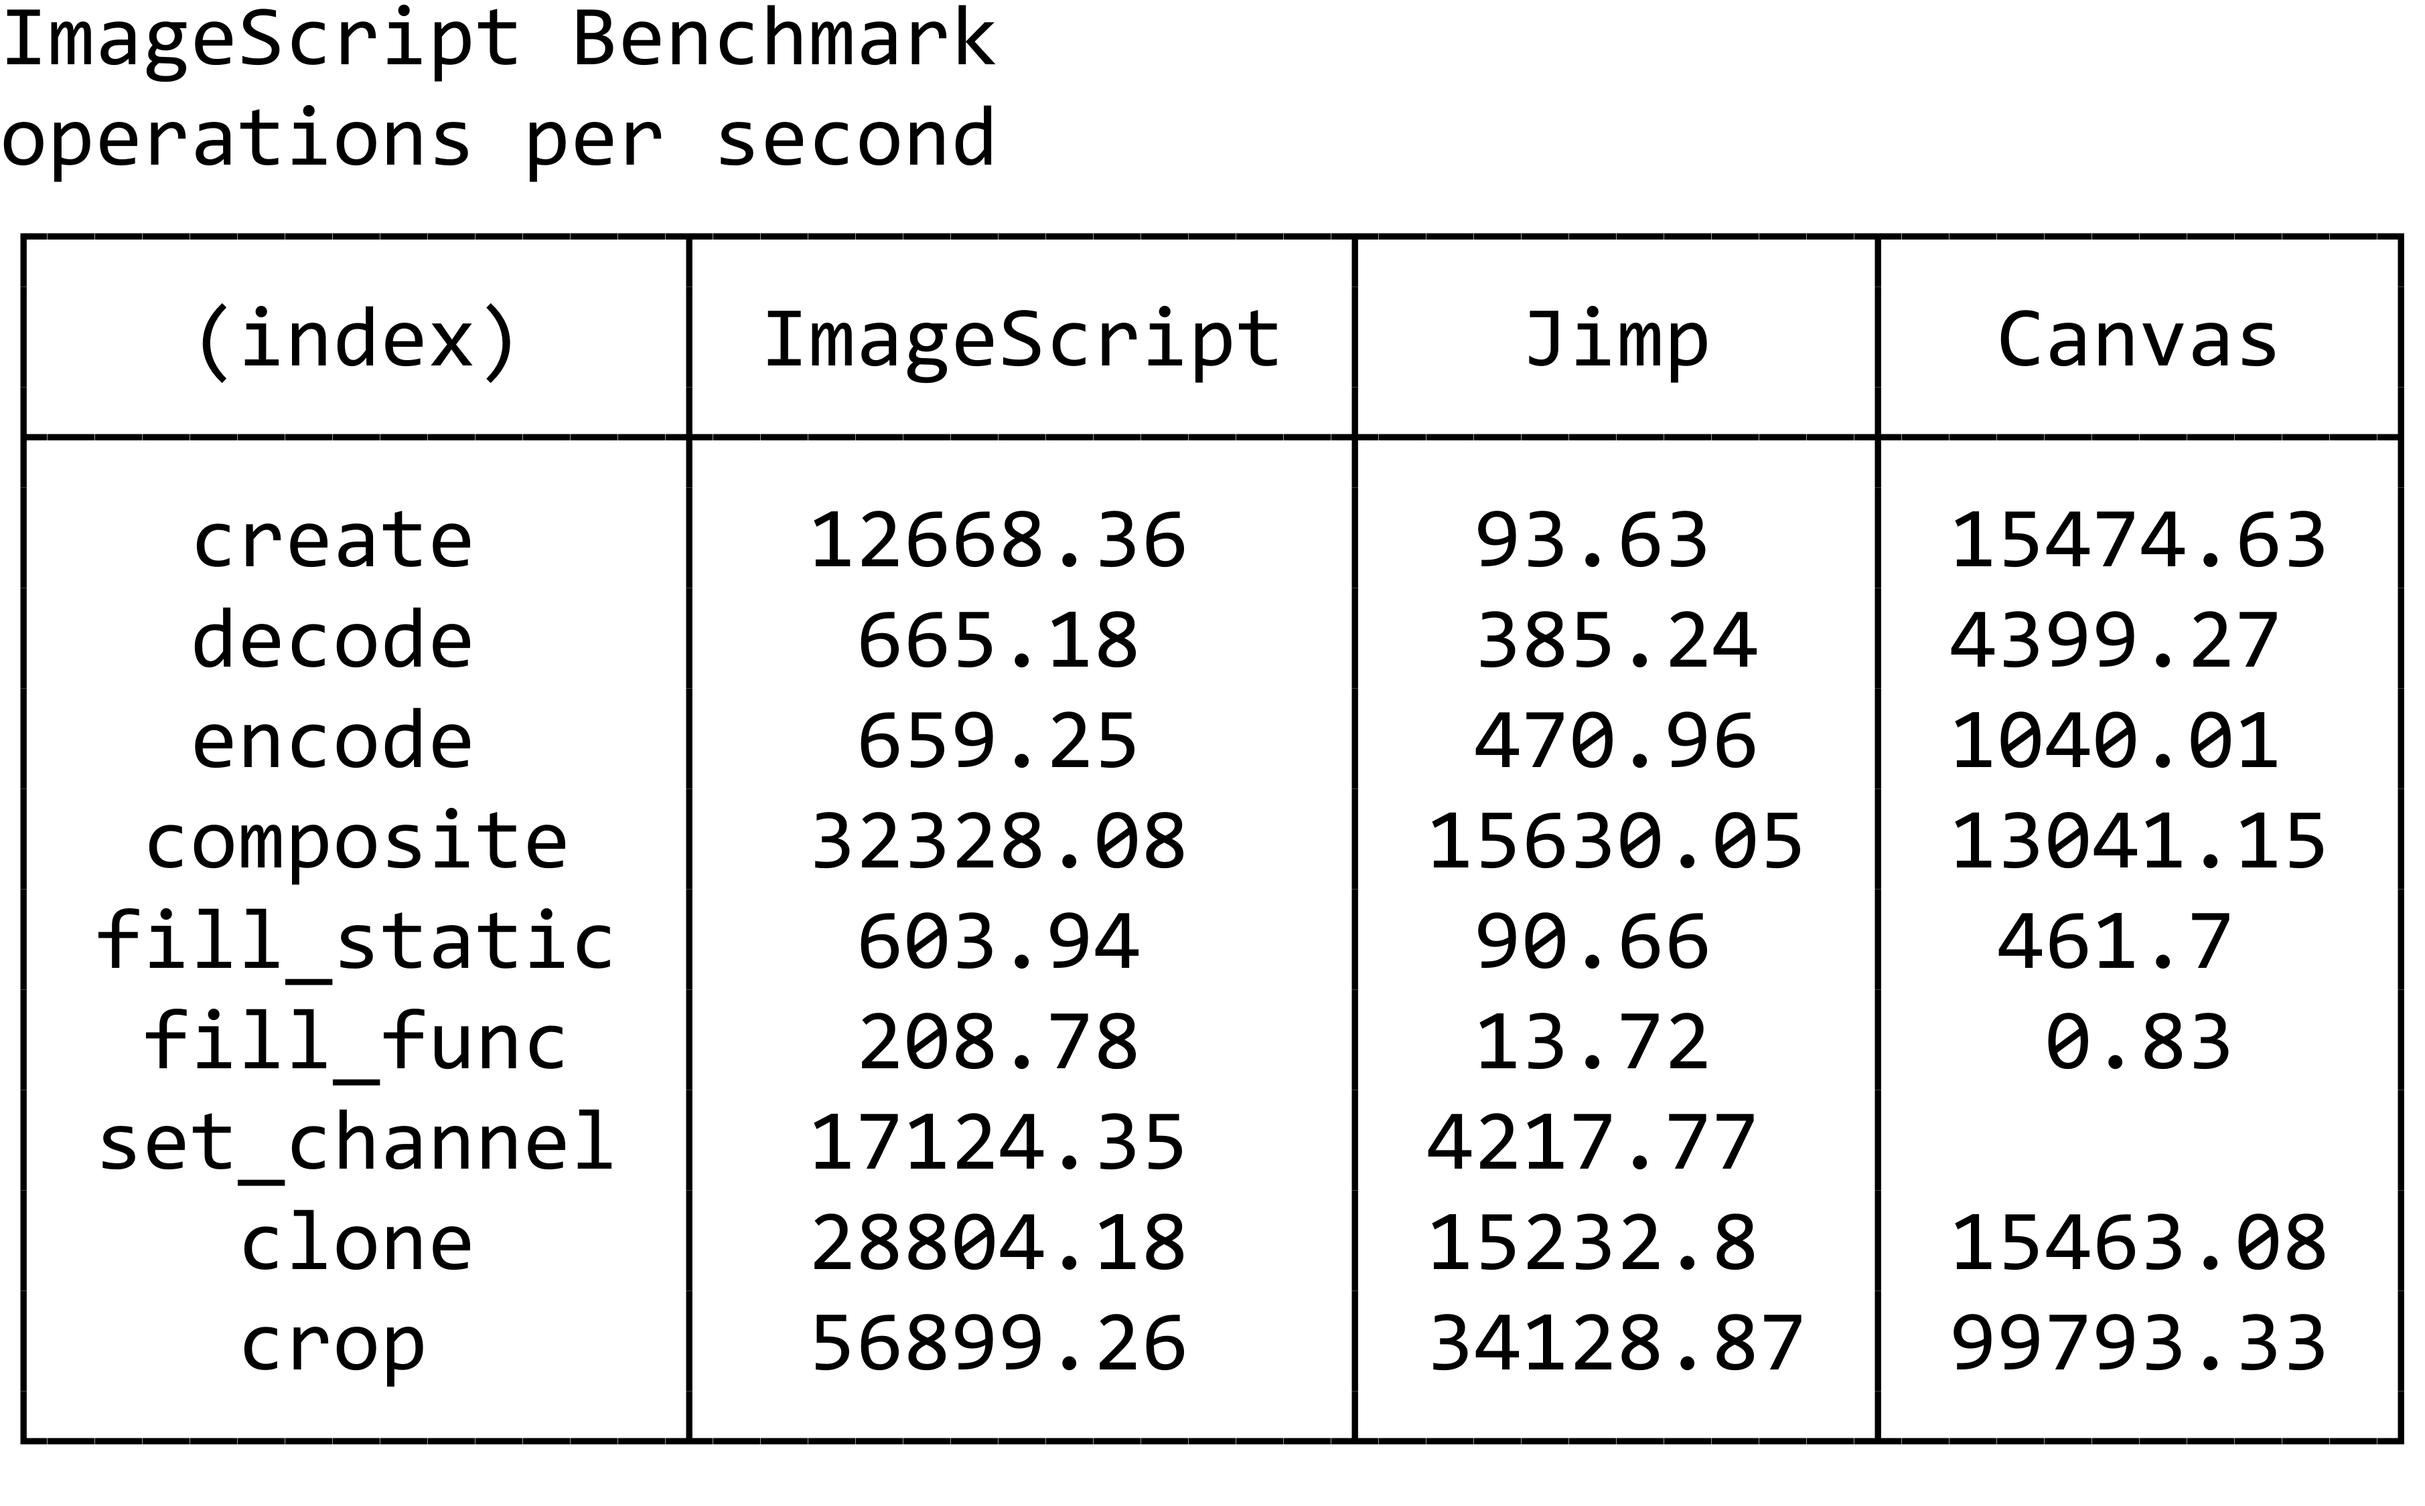
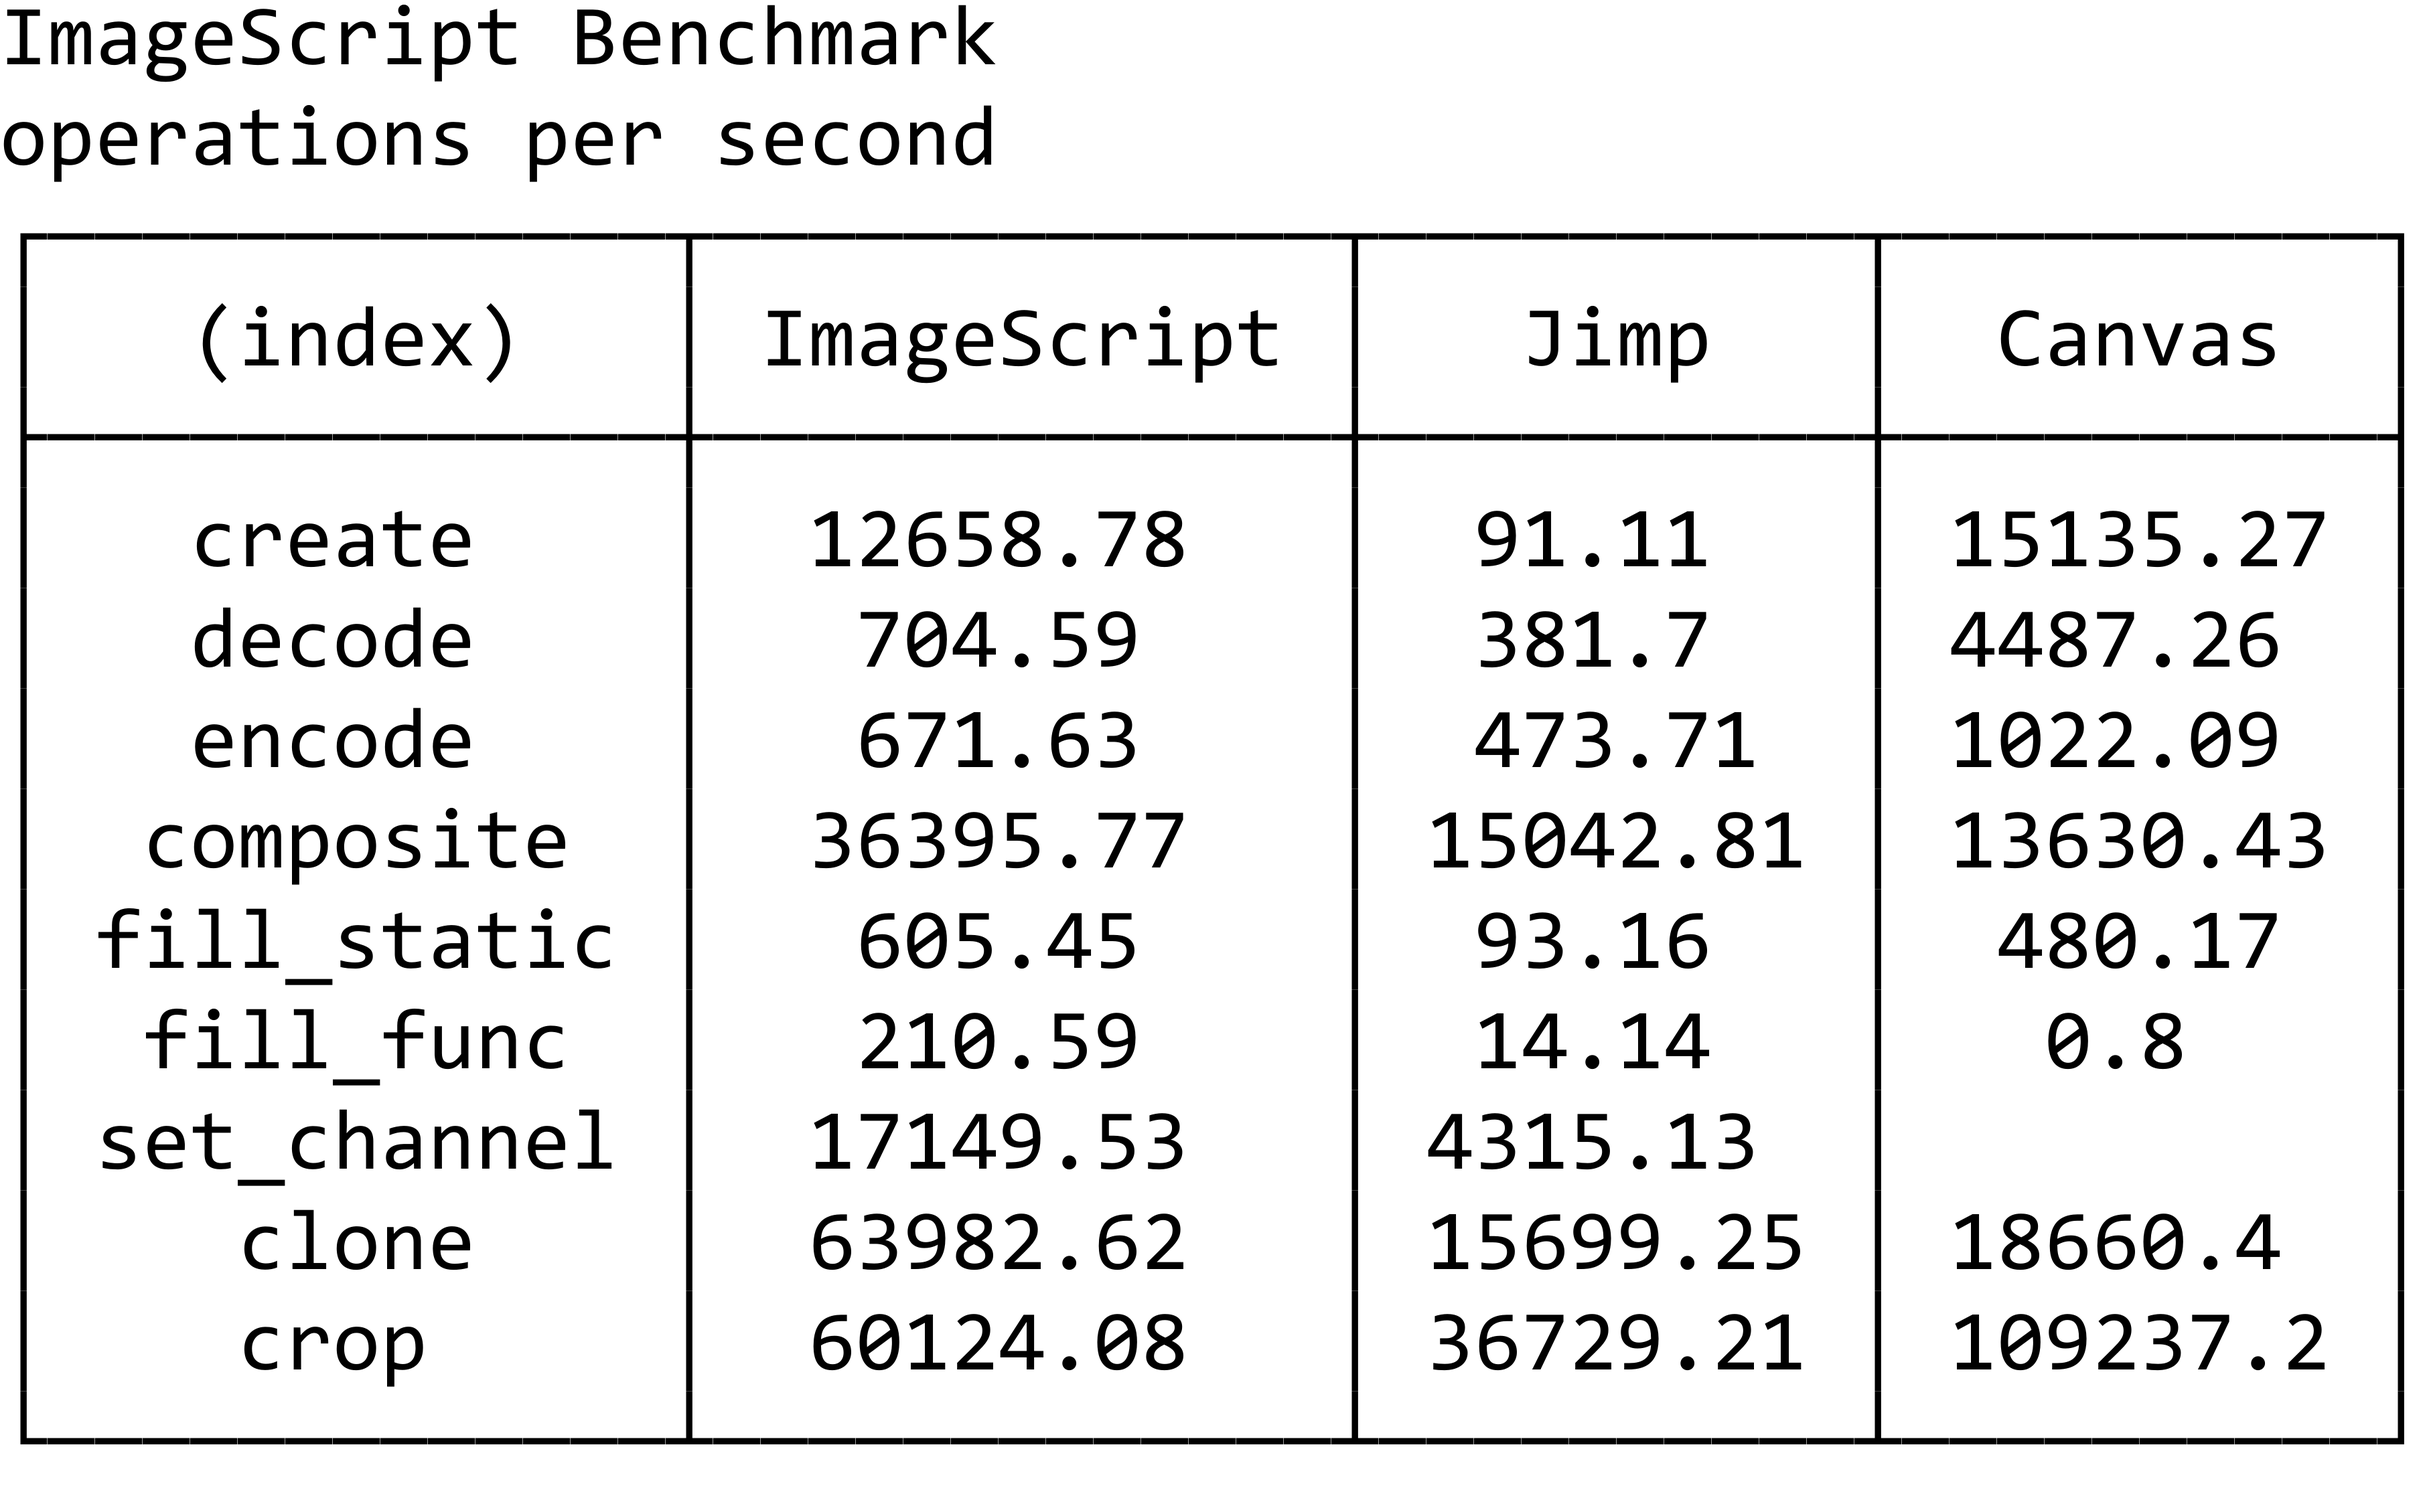
upload new formatting

diff --git a/index.js b/index.js
@@ -171,7 +171,7 @@ const canvas = require('canvas');
     console.log(str);
 
     const cleanStr = str.replace(/\x1b\[\d+m/g, '');
-    fs.writeFileSync('README.md', `# ImageScript benchmark\n\n\`\`\`\n${cleanStr.replace(/\n/g, '  \n')}\n\`\`\``);
+    fs.writeFileSync('README.md', `# ImageScript benchmark\n\n\`\`\`\n${cleanStr.split('\n').slice(1, Infinity).join('\n').replace(/\n/g, '  \n')}\`\`\``);
     fs.writeFileSync('results.json', JSON.stringify(results));
 
     const font = fs.readFileSync('C:\\Windows\\Fonts\\consola.ttf');

diff --git a/README.md b/README.md
@@ -1,19 +1,18 @@
 # ImageScript benchmark
 
-ImageScript Benchmark  
-operations per second  
 ```
+operations per second  
 ┌─────────────┬─────────────┬──────────┬──────────┐  
 │   (index)   │ ImageScript │   Jimp   │  Canvas  │  
 ├─────────────┼─────────────┼──────────┼──────────┤  
-│   create    │  12668.36   │  93.63   │ 15474.63 │  
-│   decode    │   665.18    │  385.24  │ 4399.27  │  
-│   encode    │   659.25    │  470.96  │ 1040.01  │  
-│  composite  │  32328.08   │ 15630.05 │ 13041.15 │  
-│ fill_static │   603.94    │  90.66   │  461.7   │  
-│  fill_func  │   208.78    │  13.72   │   0.83   │  
-│ set_channel │  17124.35   │ 4217.77  │          │  
-│    clone    │  28804.18   │ 15232.8  │ 15463.08 │  
-│    crop     │  56899.26   │ 34128.87 │ 99793.33 │  
+│   create    │  12658.78   │  91.11   │ 15135.27 │  
+│   decode    │   704.59    │  381.7   │ 4487.26  │  
+│   encode    │   671.63    │  473.71  │ 1022.09  │  
+│  composite  │  36395.77   │ 15042.81 │ 13630.43 │  
+│ fill_static │   605.45    │  93.16   │  480.17  │  
+│  fill_func  │   210.59    │  14.14   │   0.8    │  
+│ set_channel │  17149.53   │ 4315.13  │          │  
+│    clone    │  63982.62   │ 15699.25 │ 18660.4  │  
+│    crop     │  60124.08   │ 36729.21 │ 109237.2 │  
 └─────────────┴─────────────┴──────────┴──────────┘  
 ```
